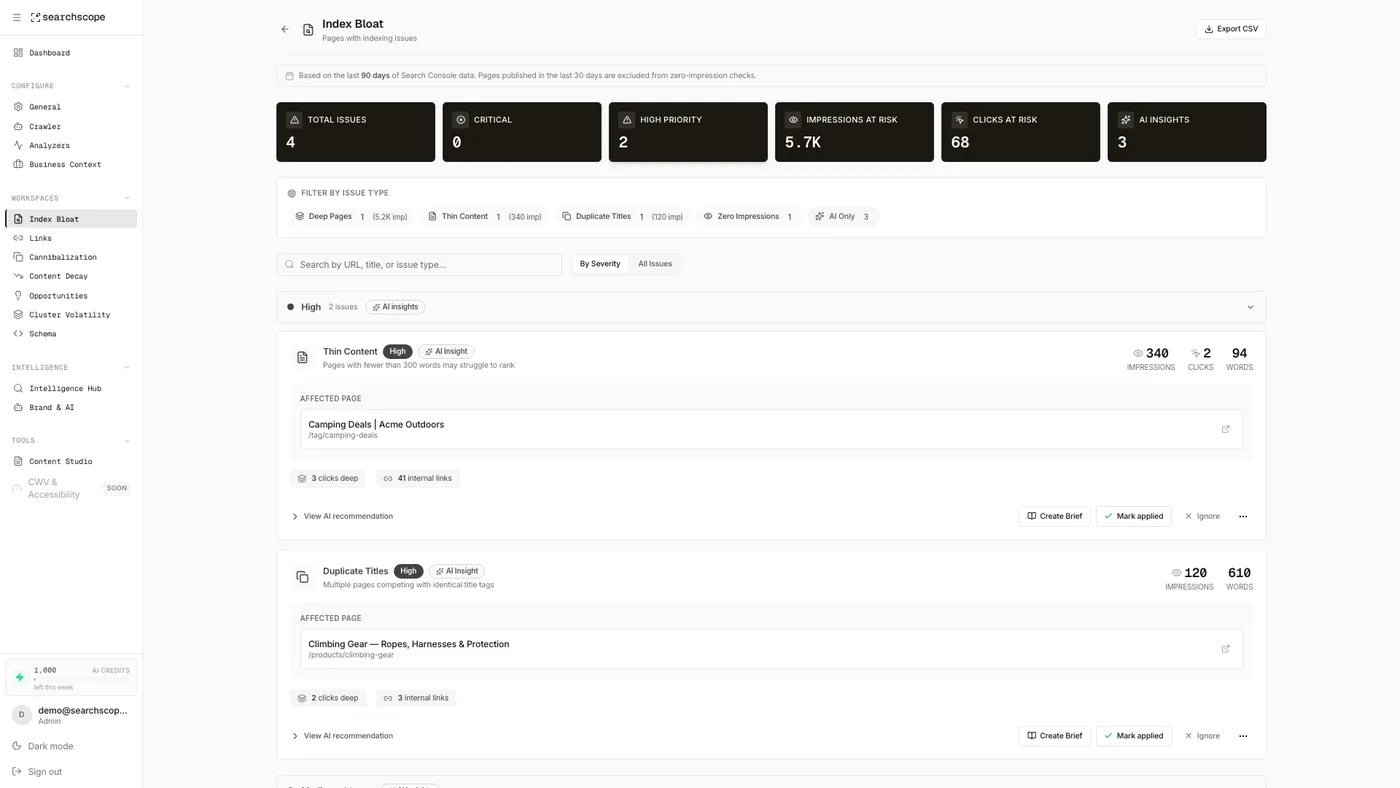
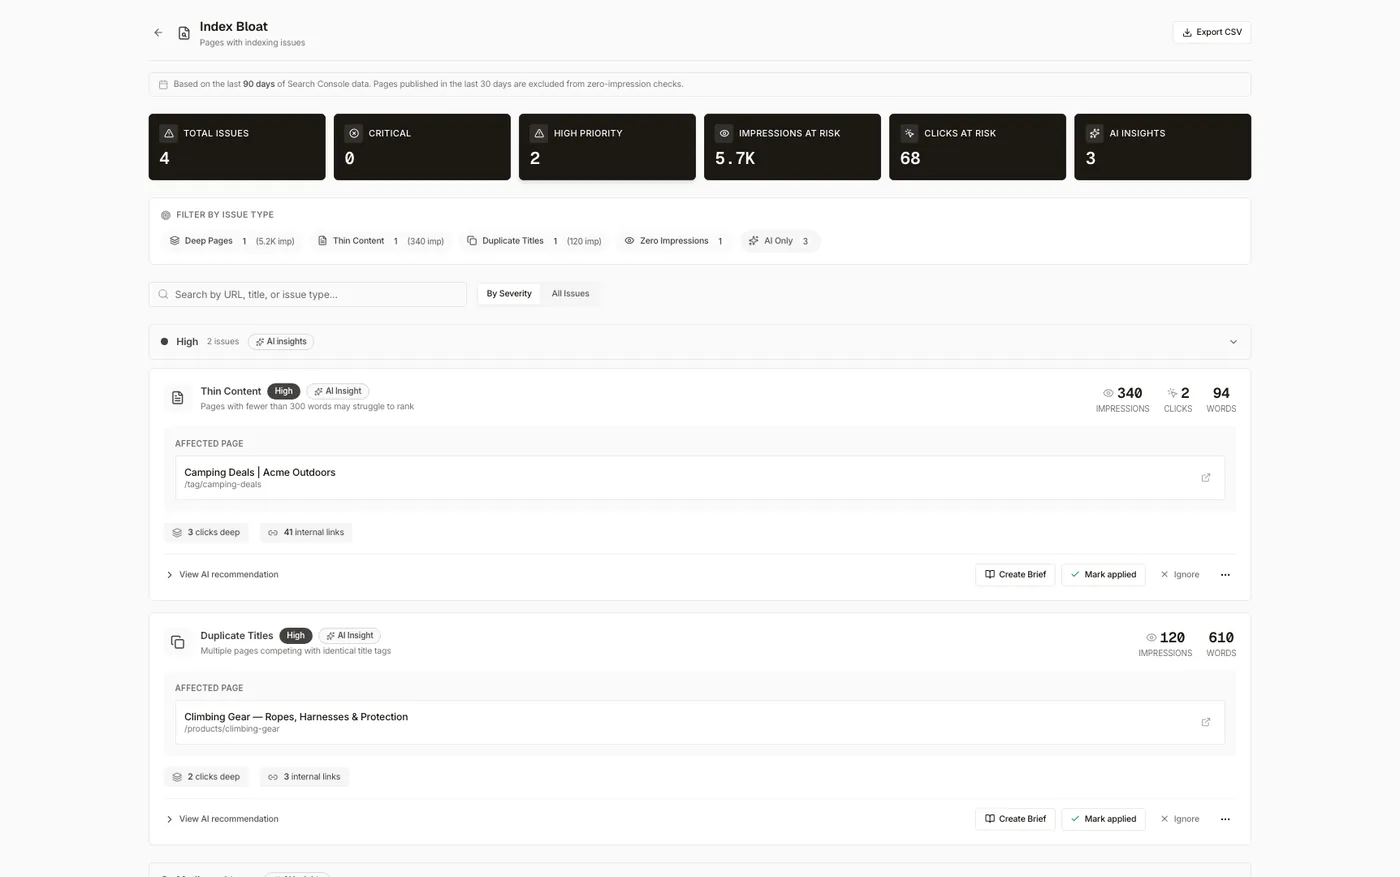
Same screenshot treatment for the analyzer pages
Crops the app sidebar out of all seven analyzer screenshots, from x=196 as
before, and re-exports at 1400x877. On the analyzers hub the tab shots now
cap at 64ch with a 2rem gap off the copy, matching Search Intelligence.

The seven analyzer detail pages reuse the same files as hero images, so they
pick up the crop automatically. Their width and height attributes are
updated to match the new intrinsic size, on all eight pages, so nothing
shifts while the images load.

Checked every /brand/ image on the site against its declared dimensions
afterwards: no mismatches left.

diff --git a/holding/platform/analyzers/index.html b/holding/platform/analyzers/index.html
@@ -758,7 +758,7 @@ strong, b { font-weight: 600; color: var(--ink); }
     .tab[aria-selected="true"] { color: var(--ink); border-left-color: var(--ink); }
     .tab[aria-selected="true"] i { color: var(--ink-dim); }
     .tabpanel[hidden] { display: none; }
-    .tabpanel__shot { display: block; width: 100%; height: auto; aspect-ratio: 16 / 10; object-fit: cover; object-position: top left; border: 1px solid var(--hairline); border-radius: var(--radius-m); box-shadow: var(--shadow-m); background: var(--surface-panel); }
+    .tabpanel__shot { display: block; width: 100%; max-width: 64ch; margin: var(--space-l) 0 0; height: auto; aspect-ratio: 16 / 10; object-fit: cover; object-position: top left; border: 1px solid var(--hairline); border-radius: var(--radius-m); box-shadow: var(--shadow-m); background: var(--surface-panel); }
     .tabpanel__t { font-family: var(--font-display); font-weight: 600; font-size: var(--step-2); letter-spacing: -0.02em; margin: 0; }
     .tabpanel__d { color: var(--ink-dim); font-size: var(--step-0); line-height: 1.65; margin: var(--space-s) 0 0; max-width: 64ch; }
     .tabpanel__go { margin: var(--space-m) 0 var(--space-l); }
@@ -1349,7 +1349,7 @@ height="0" width="0" style="display:none;visibility:hidden"></iframe></noscript>
             </a>
           </p>
           <img class="tabpanel__shot" src="/brand/analyzers/cannibalization.webp" alt="The cannibalization analyzer in Searchscope"
-               width="1400" height="788" loading="lazy" decoding="async">
+               width="1400" height="877" loading="lazy" decoding="async">
         </div>
         <div class="tabpanel" role="tabpanel" id="panel-content-decay" aria-labelledby="tab-content-decay" hidden>
           <h3 class="tabpanel__t">Content decay</h3>
@@ -1361,7 +1361,7 @@ height="0" width="0" style="display:none;visibility:hidden"></iframe></noscript>
             </a>
           </p>
           <img class="tabpanel__shot" src="/brand/analyzers/content-decay.webp" alt="The content decay analyzer in Searchscope"
-               width="1400" height="788" loading="lazy" decoding="async">
+               width="1400" height="877" loading="lazy" decoding="async">
         </div>
         <div class="tabpanel" role="tabpanel" id="panel-opportunities" aria-labelledby="tab-opportunities" hidden>
           <h3 class="tabpanel__t">Opportunities</h3>
@@ -1373,7 +1373,7 @@ height="0" width="0" style="display:none;visibility:hidden"></iframe></noscript>
             </a>
           </p>
           <img class="tabpanel__shot" src="/brand/analyzers/opportunities.webp" alt="The opportunities analyzer in Searchscope"
-               width="1400" height="788" loading="lazy" decoding="async">
+               width="1400" height="877" loading="lazy" decoding="async">
         </div>
         <div class="tabpanel" role="tabpanel" id="panel-cluster-volatility" aria-labelledby="tab-cluster-volatility" hidden>
           <h3 class="tabpanel__t">Cluster volatility</h3>
@@ -1385,7 +1385,7 @@ height="0" width="0" style="display:none;visibility:hidden"></iframe></noscript>
             </a>
           </p>
           <img class="tabpanel__shot" src="/brand/analyzers/cluster-volatility.webp" alt="The cluster volatility analyzer in Searchscope"
-               width="1400" height="788" loading="lazy" decoding="async">
+               width="1400" height="877" loading="lazy" decoding="async">
         </div>
         <div class="tabpanel" role="tabpanel" id="panel-index-bloat" aria-labelledby="tab-index-bloat" hidden>
           <h3 class="tabpanel__t">Index bloat</h3>
@@ -1397,7 +1397,7 @@ height="0" width="0" style="display:none;visibility:hidden"></iframe></noscript>
             </a>
           </p>
           <img class="tabpanel__shot" src="/brand/analyzers/index-bloat.webp" alt="The index bloat analyzer in Searchscope"
-               width="1400" height="788" loading="lazy" decoding="async">
+               width="1400" height="877" loading="lazy" decoding="async">
         </div>
         <div class="tabpanel" role="tabpanel" id="panel-internal-links" aria-labelledby="tab-internal-links" hidden>
           <h3 class="tabpanel__t">Internal links</h3>
@@ -1409,7 +1409,7 @@ height="0" width="0" style="display:none;visibility:hidden"></iframe></noscript>
             </a>
           </p>
           <img class="tabpanel__shot" src="/brand/analyzers/internal-links.webp" alt="The internal links analyzer in Searchscope"
-               width="1400" height="788" loading="lazy" decoding="async">
+               width="1400" height="877" loading="lazy" decoding="async">
         </div>
         <div class="tabpanel" role="tabpanel" id="panel-schema" aria-labelledby="tab-schema" hidden>
           <h3 class="tabpanel__t">Schema</h3>
@@ -1421,7 +1421,7 @@ height="0" width="0" style="display:none;visibility:hidden"></iframe></noscript>
             </a>
           </p>
           <img class="tabpanel__shot" src="/brand/analyzers/schema.webp" alt="The schema analyzer in Searchscope"
-               width="1400" height="788" loading="lazy" decoding="async">
+               width="1400" height="877" loading="lazy" decoding="async">
         </div>
         </div>
       </div>

diff --git a/holding/platform/analyzers/content-decay/index.html b/holding/platform/analyzers/content-decay/index.html
@@ -1199,7 +1199,7 @@ height="0" width="0" style="display:none;visibility:hidden"></iframe></noscript>
       <div class="hero__visual reveal" style="--reveal-delay:170ms">
         <img class="hero__shot" src="/brand/analyzers/content-decay.webp"
              alt="The content decay workspace in Searchscope, showing decaying pages and the keywords behind the loss"
-             width="1400" height="788" loading="eager" decoding="async">
+             width="1400" height="877" loading="eager" decoding="async">
       </div>
       </div>
     </div>

diff --git a/holding/platform/analyzers/opportunities/index.html b/holding/platform/analyzers/opportunities/index.html
@@ -1200,7 +1200,7 @@ height="0" width="0" style="display:none;visibility:hidden"></iframe></noscript>
       <div class="hero__visual reveal" style="--reveal-delay:170ms">
         <img class="hero__shot" src="/brand/analyzers/opportunities.webp"
              alt="The opportunities workspace in Searchscope, showing striking distance queries and quick stats"
-             width="1400" height="788" loading="eager" decoding="async">
+             width="1400" height="877" loading="eager" decoding="async">
       </div>
       </div>
     </div>

diff --git a/holding/platform/analyzers/cannibalization/index.html b/holding/platform/analyzers/cannibalization/index.html
@@ -1198,7 +1198,7 @@ height="0" width="0" style="display:none;visibility:hidden"></iframe></noscript>
       <div class="hero__visual reveal" style="--reveal-delay:170ms">
         <img class="hero__shot" src="/brand/analyzers/cannibalization.webp"
              alt="The cannibalization workspace in Searchscope, showing competing pages and shared keywords"
-             width="1400" height="788" loading="eager" decoding="async">
+             width="1400" height="877" loading="eager" decoding="async">
       </div>
       </div>
     </div>

diff --git a/holding/platform/analyzers/cluster-volatility/index.html b/holding/platform/analyzers/cluster-volatility/index.html
@@ -1199,7 +1199,7 @@ height="0" width="0" style="display:none;visibility:hidden"></iframe></noscript>
       <div class="hero__visual reveal" style="--reveal-delay:170ms">
         <img class="hero__shot" src="/brand/analyzers/cluster-volatility.webp"
              alt="The cluster volatility workspace in Searchscope, showing topic clusters and coverage"
-             width="1400" height="788" loading="eager" decoding="async">
+             width="1400" height="877" loading="eager" decoding="async">
       </div>
       </div>
     </div>

diff --git a/holding/platform/analyzers/index-bloat/index.html b/holding/platform/analyzers/index-bloat/index.html
@@ -1190,7 +1190,7 @@ height="0" width="0" style="display:none;visibility:hidden"></iframe></noscript>
 
       <div class="hero__visual reveal" style="--reveal-delay:170ms">
         <img class="hero__shot" src="/brand/analyzers/index-bloat.webp" alt="The index bloat workspace in Searchscope, showing thin and duplicate pages with verdicts"
-             width="1400" height="788" loading="eager" decoding="async">
+             width="1400" height="877" loading="eager" decoding="async">
       </div>
       </div>
     </div>

diff --git a/holding/platform/analyzers/internal-links/index.html b/holding/platform/analyzers/internal-links/index.html
@@ -1190,7 +1190,7 @@ height="0" width="0" style="display:none;visibility:hidden"></iframe></noscript>
 
       <div class="hero__visual reveal" style="--reveal-delay:170ms">
         <img class="hero__shot" src="/brand/analyzers/internal-links.webp" alt="The internal links workspace in Searchscope, showing source to target link tickets"
-             width="1400" height="788" loading="eager" decoding="async">
+             width="1400" height="877" loading="eager" decoding="async">
       </div>
       </div>
     </div>

diff --git a/holding/platform/analyzers/schema/index.html b/holding/platform/analyzers/schema/index.html
@@ -1190,7 +1190,7 @@ height="0" width="0" style="display:none;visibility:hidden"></iframe></noscript>
 
       <div class="hero__visual reveal" style="--reveal-delay:170ms">
         <img class="hero__shot" src="/brand/analyzers/schema.webp" alt="The schema workspace in Searchscope, showing missing structured data and generated JSON-LD"
-             width="1400" height="788" loading="eager" decoding="async">
+             width="1400" height="877" loading="eager" decoding="async">
       </div>
       </div>
     </div>
